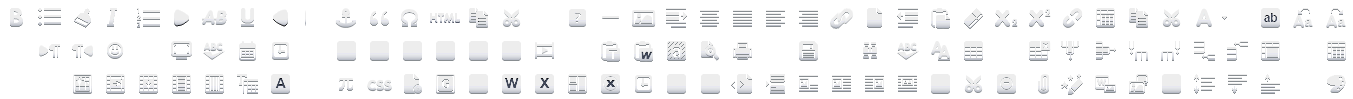
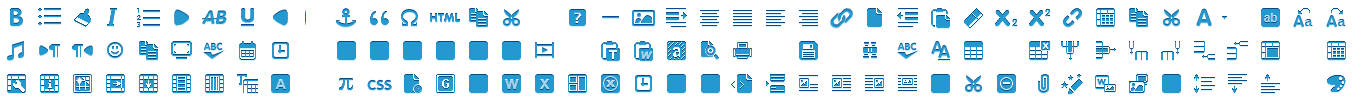
[add]by xuheng

diff --git a/themes/gorgeous/_css/buttonicon.css b/themes/gorgeous/_css/buttonicon.css
@@ -242,7 +242,7 @@
 .edui-gorgeous .edui-for-copy .edui-state-hover .edui-icon,
 .edui-gorgeous .edui-for-copy .edui-state-checked .edui-icon,
 .edui-gorgeous .edui-for-copy .edui-icon {
-    background-position: -695px -3px
+    background-position: -1123px -3px
 }
 
 .edui-gorgeous .edui-for-paste .edui-state-hover .edui-icon,
@@ -458,7 +458,7 @@
 .edui-gorgeous .edui-for-edittable .edui-state-hover .edui-icon,
 .edui-gorgeous .edui-for-edittable .edui-state-checked .edui-icon,
 .edui-gorgeous .edui-for-edittable .edui-icon {
-    background-position: -434px -68px
+    background-position: -2px -69px
 }
 
 .edui-gorgeous .edui-for-template .edui-state-hover .edui-icon,
@@ -494,7 +494,7 @@
 .edui-gorgeous .edui-for-edittd .edui-state-hover .edui-icon,
 .edui-gorgeous .edui-for-edittd .edui-state-checked .edui-icon,
 .edui-gorgeous .edui-for-edittd .edui-icon {
-    background-position: -700px -68px;
+    background-position: -35px -69px
 }
 
 .edui-gorgeous .edui-for-snapscreen .edui-state-hover .edui-icon,
@@ -518,5 +518,5 @@
 .edui-gorgeous .edui-for-music .edui-state-hover .edui-icon,
 .edui-gorgeous .edui-for-music .edui-state-checked .edui-icon,
 .edui-gorgeous .edui-for-music .edui-icon {
-    background-position: -1124px -68px
+    background-position: 0 -36px
 }

diff --git a/themes/modern/_css/buttonicon.css b/themes/modern/_css/buttonicon.css
@@ -242,7 +242,7 @@
 .edui-modern .edui-for-copy .edui-state-hover .edui-icon,
 .edui-modern .edui-for-copy .edui-state-checked .edui-icon,
 .edui-modern .edui-for-copy .edui-icon {
-    background-position: -695px -3px
+    background-position: -1123px -3px
 }
 
 .edui-modern .edui-for-paste .edui-state-hover .edui-icon,
@@ -458,7 +458,7 @@
 .edui-modern .edui-for-edittable .edui-state-hover .edui-icon,
 .edui-modern .edui-for-edittable .edui-state-checked .edui-icon,
 .edui-modern .edui-for-edittable .edui-icon {
-    background-position: -434px -68px
+    background-position: -2px -69px
 }
 
 .edui-modern .edui-for-template .edui-state-hover .edui-icon,
@@ -494,7 +494,7 @@
 .edui-modern .edui-for-edittd .edui-state-hover .edui-icon,
 .edui-modern .edui-for-edittd .edui-state-checked .edui-icon,
 .edui-modern .edui-for-edittd .edui-icon {
-    background-position: -700px -68px;
+    background-position: -35px -69px
 }
 
 .edui-modern .edui-for-snapscreen .edui-state-hover .edui-icon,
@@ -518,5 +518,5 @@
 .edui-modern .edui-for-music .edui-state-hover .edui-icon,
 .edui-modern .edui-for-music .edui-state-checked .edui-icon,
 .edui-modern .edui-for-music .edui-icon {
-    background-position: -1124px -68px
+    background-position: 0 -36px
 }

diff --git a/editor_config.js b/editor_config.js
@@ -107,8 +107,8 @@
 
         //主题配置项,默认是default。有需要的话也可以使用如下这样的方式来自动多主题切换，当然，前提条件是themes文件夹下存在对应的主题文件：
         //现有如下皮肤:default,modern,gorgeous
-        //,theme:'default'
-        //,themePath:URL +"themes/"
+        ,theme:'gorgeous'
+        ,themePath:URL +"themes/"
 
         //若实例化编辑器的页面手动修改的domain，此处需要设置为true
         //,customDomain:false
